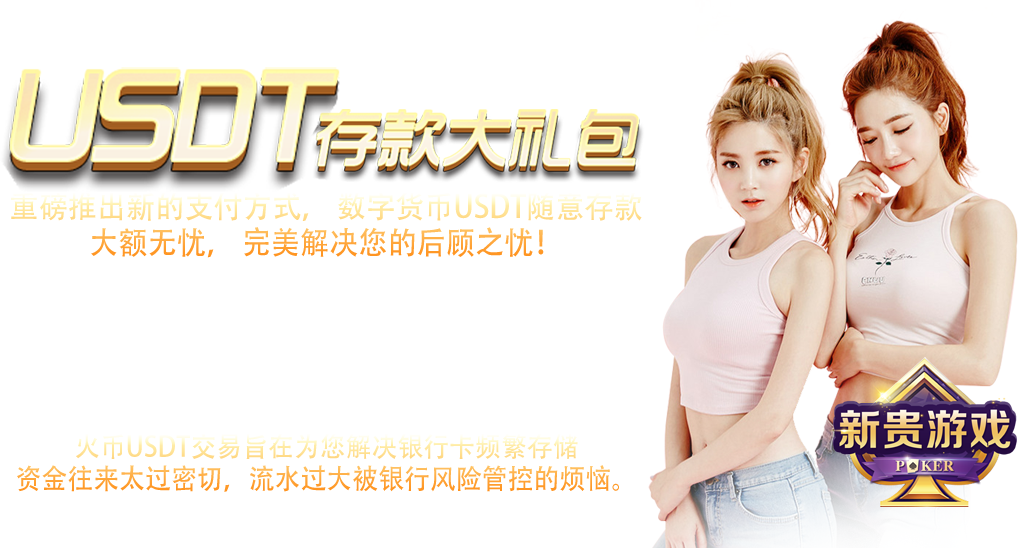
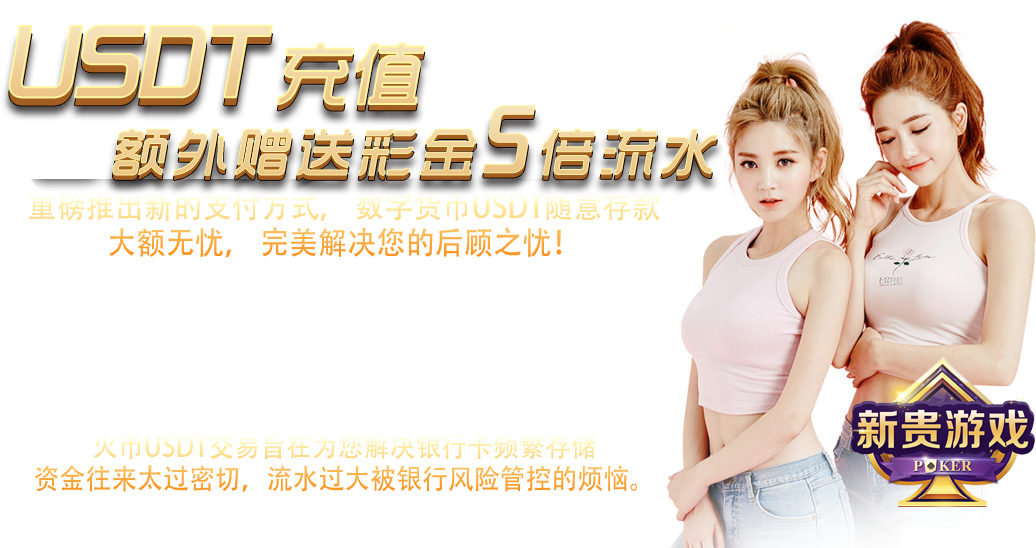
修改usdt素材

diff --git a/assets/subgame/pay/Script/Activity/payUsdtCunKuan.ts b/assets/subgame/pay/Script/Activity/payUsdtCunKuan.ts
@@ -115,6 +115,6 @@ export default class NewClass extends cc.Component {
         })
         
[1 lines of base64/hex data omitted]
-        rule.string = Language_pay.Lg.ChangeByText("活动规则：\n1. 只要您使用虚拟货币USDT进行存款，单笔充值100USDT以上，累计达到相对应的充值次数即可领取相对应的彩金（彩金1倍流水即可申请兑换）。\n2. 同IP同设备多账号仅限1个账号享受活动资格。\n3. USDT地址绑定，依照平台指引地址类型进行绑定，如有疑问请及时咨询客服。\n4. 本活动最终解释权归新贵游戏所有。")
+        rule.string = Language_pay.Lg.ChangeByText("活动规则：\n1. 只要您使用虚拟货币USDT进行存款，单笔充值100USDT以上，累计达到相对应的充值次数即可领取相对应的彩金（彩金5倍流水即可申请兑换）。\n2. 同IP同设备多账号仅限1个账号享受活动资格。\n3. USDT地址绑定，依照平台指引地址类型进行绑定，如有疑问请及时咨询客服。\n4. 本活动最终解释权归新贵游戏所有。")
     }  
 }

diff --git a/assets/subgame/pay/Script/language/payLanguage.ts b/assets/subgame/pay/Script/language/payLanguage.ts
@@ -392,7 +392,7 @@ export namespace Language_pay {
             "开放时间",
             "USDT存款次数",
             "次",
-            "活动规则：\n1. 只要您使用虚拟货币USDT进行存款，单笔充值100USDT以上，累计达到相对应的充值次数即可领取相对应的彩金（彩金1倍流水即可申请兑换）。\n2. 同IP同设备多账号仅限1个账号享受活动资格。\n3. USDT地址绑定，依照平台指引地址类型进行绑定，如有疑问请及时咨询客服。\n4. 本活动最终解释权归新贵游戏所有。",
+            "活动规则：\n1. 只要您使用虚拟货币USDT进行存款，单笔充值100USDT以上，累计达到相对应的充值次数即可领取相对应的彩金（彩金5倍流水即可申请兑换）。\n2. 同IP同设备多账号仅限1个账号享受活动资格。\n3. USDT地址绑定，依照平台指引地址类型进行绑定，如有疑问请及时咨询客服。\n4. 本活动最终解释权归新贵游戏所有。",
 
         ]
         private English =[
